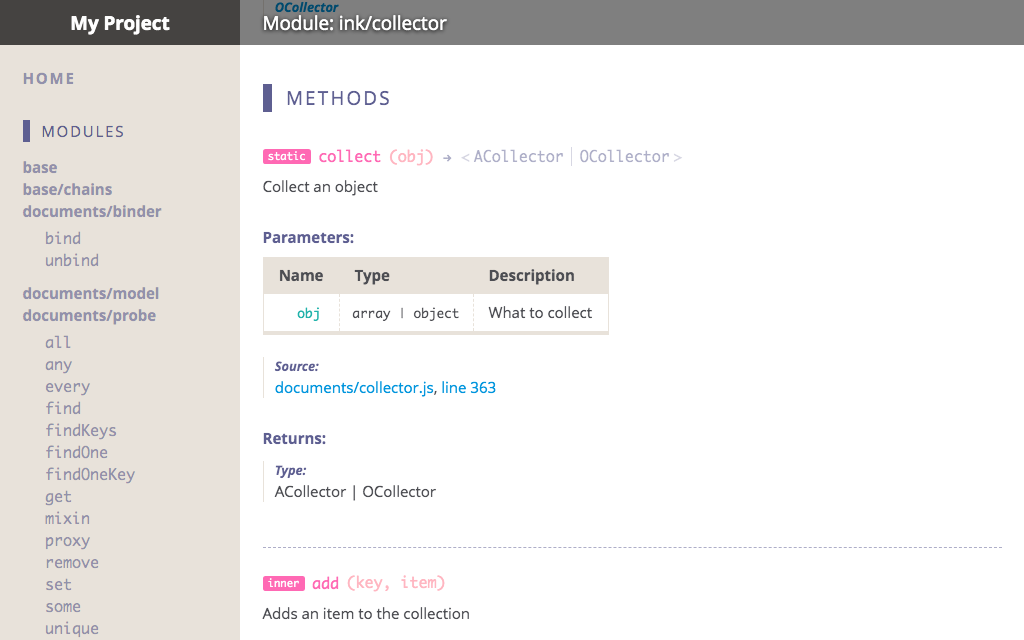
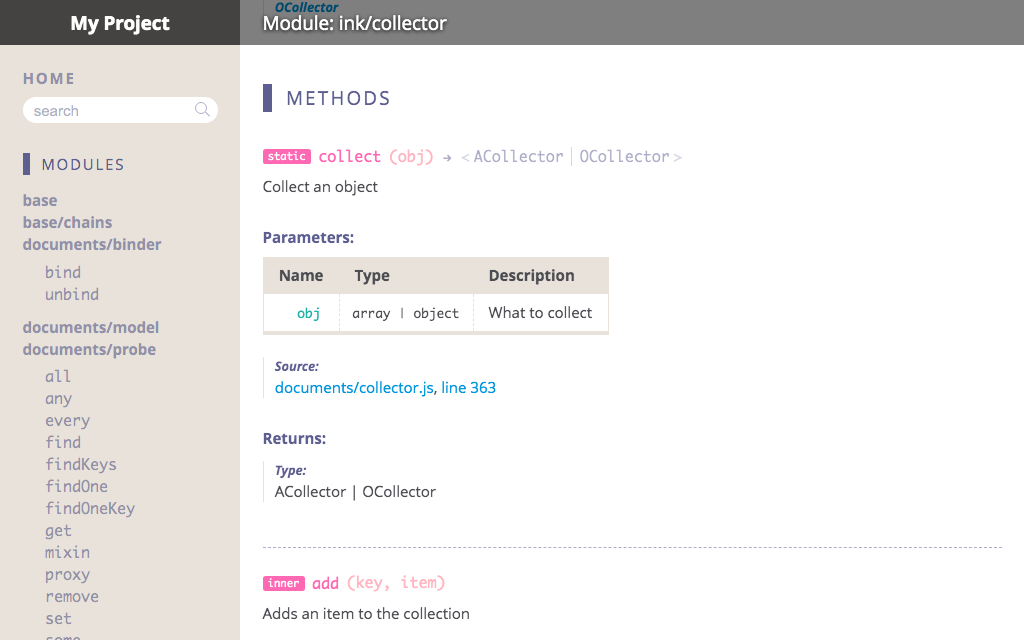
Update gallery

Changed region(s): [[0.0, 0.25, 0.1562, 1.0], [0.0, 0.125, 0.2188, 0.2188]]

diff --git a/screenshot.js b/screenshot.js
@@ -18,11 +18,6 @@ const puppeteer = require('puppeteer-core');
 	let base = 'file://' + __dirname + '/fixtures-doc/';
 	let pages = [
 		{
-			url: base + 'index.html',
-			viewport: [1024, 768],
-			scroll: [0, 950],
-			saveAs: 'home.png'
-		}, {
 			url: base + 'module-mixins_signalable-Signal.html',
 			viewport: [1024, 640],
 			scroll: [0, 0],

diff --git a/README.md b/README.md
@@ -2,7 +2,6 @@
 
 :chocolate_bar: Bittersweet theme for JSDoc 3
 
-![screenshot home](https://raw.githubusercontent.com/amekusa/docolatte/trunk/gallery/home.png)  
 ![screenshot class](https://raw.githubusercontent.com/amekusa/docolatte/trunk/gallery/class.png)  
 ![screenshot methods](https://raw.githubusercontent.com/amekusa/docolatte/trunk/gallery/methods.png)  
 ![screenshot source](https://raw.githubusercontent.com/amekusa/docolatte/trunk/gallery/source.png)  
